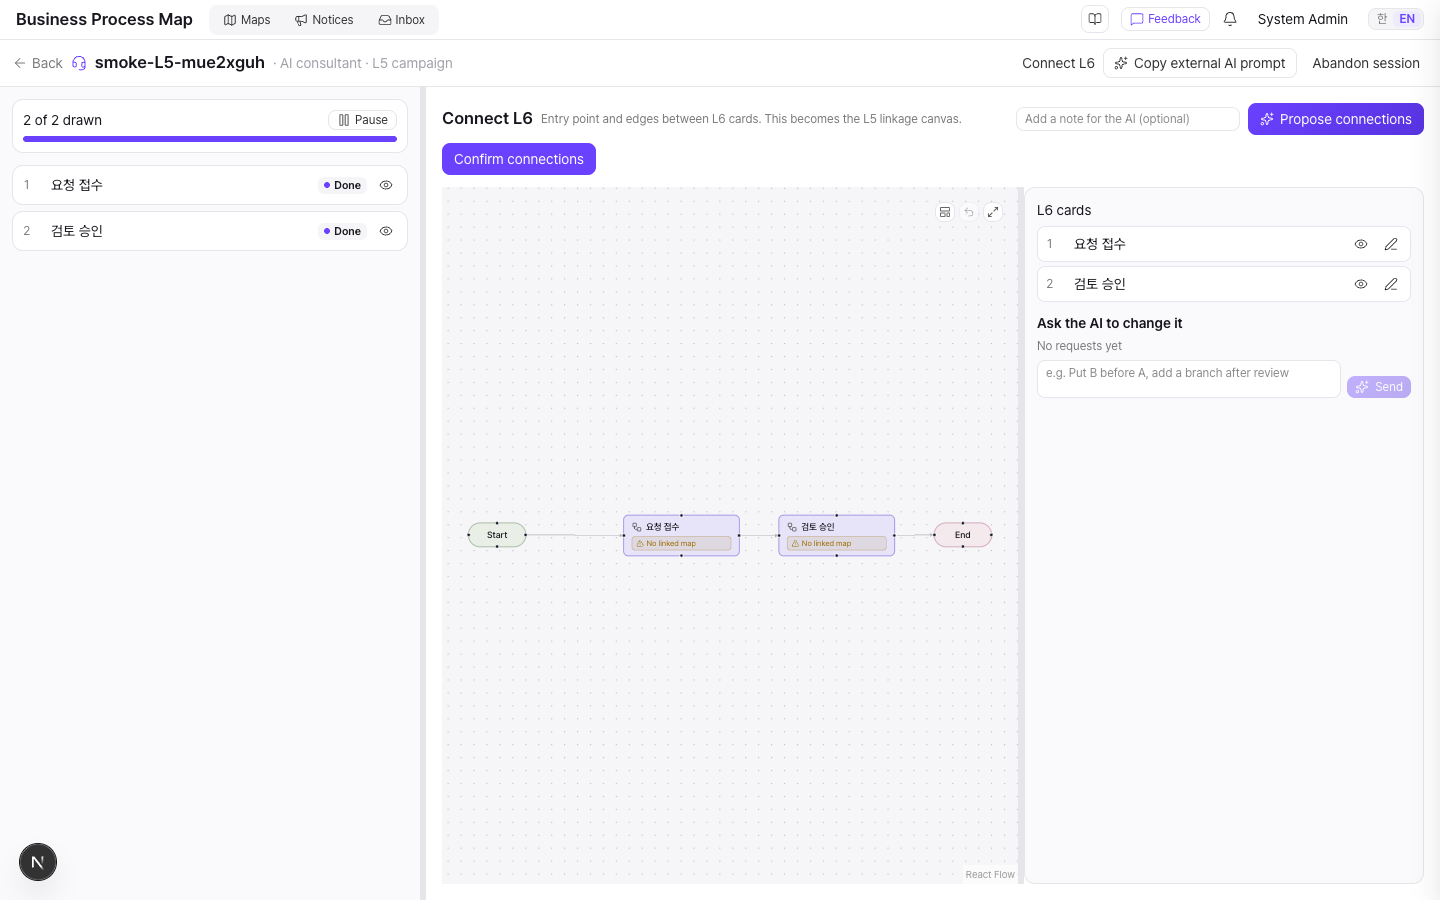
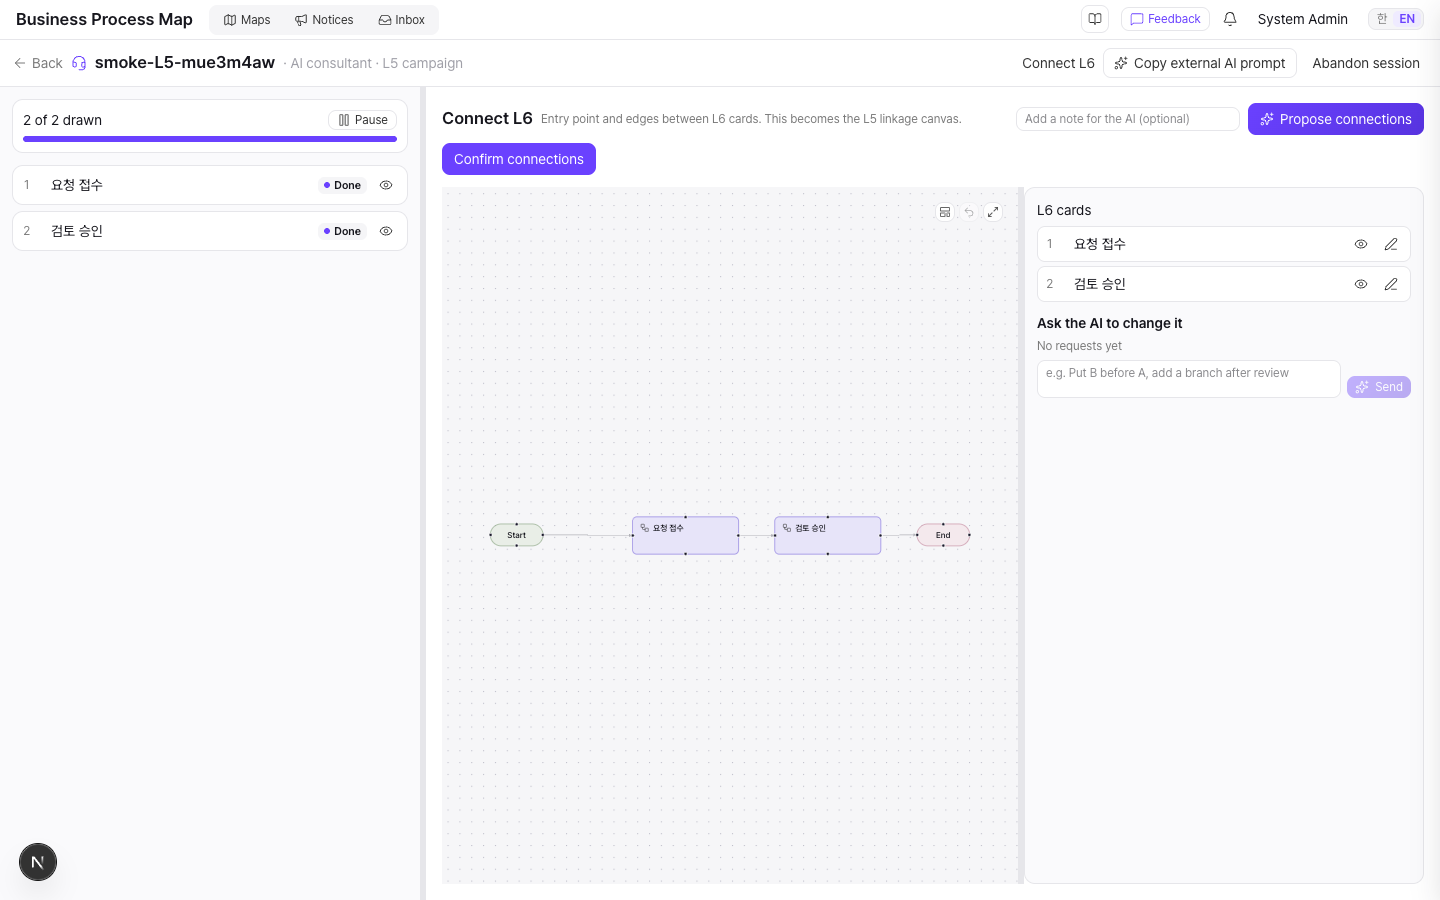
fix(fw-consult): make edge delete reachable and keep L6 nodes on the relations canvas — 엣지 삭제 복구·노드 삭제 차단
리뷰 지적 4건.

1) 제어형 edges에 onEdgesChange가 없어 select 변경이 버려졌다 — 어떤 엣지도
   selected가 되지 않아 Delete 경로가 늘 비고 onEdgesDelete가 죽어 있었다.
2) 노드는 deletable=false. Delete가 노드를 지우면 deleteElements가 연결 엣지를
   먼저 떼어내 서버엔 고아 노드(422), 화면엔 없는 노드가 남았다. L6 카드는 캔버스에
   늘 있어야 하고 분기 마름모는 컨텍스트 메뉴로만 걷는다.
3) NodeData.hideLinkBanner 옵트인 플래그 — 아직 맵이 없는 L6 노드에 뜨던 "링크
   미지정" 배너를 이 캔버스에서만 끈다(기본 off, 다른 ProcessNode 표면 불변).
4) proOptions.hideAttribution.

곁들여: 전역 <style>을 캔버스 래퍼 클래스로 한정(같은 단계의 카드 미리보기 모달이
또 다른 RF 인스턴스), fitViewOptions maxZoom 1.2, OVERLAY_MIN_MS 주석 정정.

Claude-Session: https://claude.ai/code/session_01Cp6z7UQxkS4JyPnK2oo8Q2

Changed region(s): [[0.4375, 0.56, 0.6875, 0.6222], [0.1562, 0.0622, 0.3125, 0.0933], [0.3125, 0.5911, 0.375, 0.6222]]

diff --git a/frontend/src/components/framework-interview/relations-canvas.tsx b/frontend/src/components/framework-interview/relations-canvas.tsx
@@ -4,11 +4,13 @@
 
 import { useRef, useState } from "react";
 import {
+  applyEdgeChanges,
   applyNodeChanges,
   Background,
   BackgroundVariant,
   type Connection,
   type Edge,
+  type EdgeChange,
   type NodeChange,
   type NodeTypes,
   Panel,
@@ -42,12 +44,20 @@ const nodeTypes: NodeTypes = { process: ProcessNode };
 // 임포트 리포트 미리보기 툴바와 같은 칩(map-preview ZOOM_BTN) — 캔버스 위에 얹는 작은 액션
 const TOOL_BTN =
   "inline-flex h-5 w-5 items-center justify-center rounded-sm border border-hairline bg-surface/90 text-ink-secondary hover:bg-accent-tint hover:text-accent disabled:opacity-40";
+const WRAP_CLASS = "bpm-fw-relations-flow";
+const FIT_VIEW_OPTIONS = { padding: 0.2, maxZoom: 1.2 };
 
 // 캔버스 엣지엔 핸들 개념이 없다 — 표시 단계에서 4변 핸들(sideHandles) + 우→좌로 못 박아 LR 흐름을 고정한다.
+// deletable=false — L6 카드는 캔버스에 늘 남아야 하고 분기 마름모는 컨텍스트 메뉴로만 걷는다. Delete가
+// 노드까지 지우면 deleteElements가 연결 엣지를 먼저 떼어내 서버엔 고아 노드가, 화면엔 없는 노드가 남는다.
 function buildFlow(canvas: FwCanvas): { nodes: AppNode[]; edges: Edge[] } {
   const { nodes, edges } = canvasToFlow(canvas);
   return {
-    nodes: nodes.map((node) => ({ ...node, data: { ...node.data, sideHandles: true } })),
+    nodes: nodes.map((node) => ({
+      ...node,
+      deletable: false,
+      data: { ...node.data, sideHandles: true, hideLinkBanner: true },
+    })),
     edges: edges.map((edge) => ({ ...edge, sourceHandle: "s-right", targetHandle: "t-left" })),
   };
 }
@@ -105,6 +115,12 @@ function RelationsFlow({ canvas, taskNames, onChange, onMention, busy }: Relatio
     setNodes((nds) => applyNodeChanges(changes, nds));
   }
 
+  // 제어형 edges는 onEdgesChange 없이는 select 변경이 버려진다 — 그러면 어떤 엣지도 selected가 안 되고
+  // Delete 경로(선택 엣지 수집)가 영원히 비어 onEdgesDelete가 불리지 않는다.
+  function handleEdgesChange(changes: EdgeChange<Edge>[]) {
+    setEdges((eds) => applyEdgeChanges(changes, eds));
+  }
+
   // 드롭 시점에만 좌표를 커밋 — 되돌리기 스냅샷은 남기지 않는다(구조 변경·자동 정렬 전용)
   function handleNodeDragStop(_event: unknown, _node: AppNode, dragged: AppNode[]) {
     let next = readCanvas();
@@ -147,7 +163,7 @@ function RelationsFlow({ canvas, taskNames, onChange, onMention, busy }: Relatio
     let next = base;
     for (const node of laid.nodes) next = moveNode(next, node.id, node.position.x, node.position.y);
     commit(base, next);
-    window.requestAnimationFrame(() => void fitView({ padding: 0.2 }));
+    window.requestAnimationFrame(() => void fitView(FIT_VIEW_OPTIONS));
   }
 
   function handleUndo() {
@@ -191,9 +207,10 @@ function RelationsFlow({ canvas, taskNames, onChange, onMention, busy }: Relatio
   }
 
   return (
-    <div ref={wrapRef} className="relative min-h-0 flex-1 overflow-hidden bg-canvas" data-id="fw-consult-relations-canvas">
-      {/* Turbopack이 dev에서 .react-flow__* 규칙을 purge해 raw <style>로 둔다(lessons canvas §5) */}
-      <style>{`.react-flow__node{z-index:2 !important}`}</style>
+    <div ref={wrapRef} className={`relative min-h-0 flex-1 overflow-hidden bg-canvas ${WRAP_CLASS}`} data-id="fw-consult-relations-canvas">
+      {/* Turbopack이 dev에서 .react-flow__* 규칙을 purge해 raw <style>로 둔다(lessons canvas §5).
+          이 캔버스 래퍼로 한정 — 같은 단계의 카드 미리보기 모달이 또 다른 RF 인스턴스를 띄운다. */}
+      <style>{`.${WRAP_CLASS} .react-flow__node{z-index:2 !important}`}</style>
       <div className={`h-full w-full ${busy ? "pointer-events-none opacity-60" : ""}`}>
         <ReactFlow
           nodes={nodes}
@@ -203,13 +220,17 @@ function RelationsFlow({ canvas, taskNames, onChange, onMention, busy }: Relatio
           nodesDraggable
           elementsSelectable
           onNodesChange={handleNodesChange}
+          onEdgesChange={handleEdgesChange}
           onNodeDragStop={handleNodeDragStop}
           onConnect={handleConnect}
           onEdgesDelete={handleEdgesDelete}
           onEdgeClick={handleEdgeClick}
           onNodeContextMenu={handleNodeContextMenu}
           fitView
+          fitViewOptions={FIT_VIEW_OPTIONS}
           minZoom={0.2}
+          // 우하단 어트리뷰션 마크 숨김(공식 proOptions) — 에디터와 동일
+          proOptions={{ hideAttribution: true }}
           /* 에디터와 동일한 휠/팬 맵핑 — 휠=팬, Ctrl/⌘+휠=줌 */
           panOnDrag
           panOnScroll
@@ -247,7 +268,7 @@ function RelationsFlow({ canvas, taskNames, onChange, onMention, busy }: Relatio
               data-id="fw-relations-fit"
               title={t("fwConsult.canvasFit")}
               aria-label={t("fwConsult.canvasFit")}
-              onClick={() => void fitView({ padding: 0.2 })}
+              onClick={() => void fitView(FIT_VIEW_OPTIONS)}
             >
               <Maximize2 size={12} strokeWidth={1.5} />
             </button>

diff --git a/frontend/src/components/framework-interview/relations-step.tsx b/frontend/src/components/framework-interview/relations-step.tsx
@@ -16,7 +16,8 @@ import { RelationsCanvas } from "@/components/framework-interview/relations-canv
 const PRIMARY = "rounded-sm bg-accent px-3 py-1.5 text-caption text-on-accent hover:bg-accent-focus disabled:opacity-40";
 const ICON_BTN = "rounded-sm p-1 text-ink-secondary hover:bg-surface-alt disabled:opacity-40";
 const SAVE_DEBOUNCE_MS = 300;
-// 제안 오버레이 최소 노출 — 가짜/빠른 응답에도 링이 한 번은 보이게(사용자가 무슨 일이 일어났는지 알게)
+// 제안 오버레이 최소 노출 — 캔버스가 도착하면 부모가 key로 이 컴포넌트를 리마운트해 링이 바로 걷히므로,
+// 이 하한이 실제로 묶는 건 캔버스가 끝내 오지 않는 경우(실패·무변경 응답)의 해제 판정 시점이다.
 const OVERLAY_MIN_MS = 1500;
 const EMPTY_CANVAS: FwCanvas = { nodes: [], edges: [] };
 

diff --git a/frontend/src/lib/canvas.ts b/frontend/src/lib/canvas.ts
@@ -157,6 +157,9 @@ export type NodeData = {
   spOriginPath?: string | null;
   // 비교 화면 전용 — 엣지가 4변 핸들(t-/s-)로 재매핑되므로 subprocess도 NodeHandles를 렌더해야 함 (F1)
   sideHandles?: boolean;
+  // 캠페인 연결 캔버스 전용 옵트인 — 아직 맵이 없는 L6 카드를 그리는 표면이라 "링크 미지정" 배너를 끈다.
+  // 기본(미전달)은 기존 동작 유지 — 에디터·비교·미리보기는 배너가 실제 조치 신호다.
+  hideLinkBanner?: boolean;
 };
 
 export type AppNode = Node<NodeData>;

diff --git a/frontend/src/components/process-node.tsx b/frontend/src/components/process-node.tsx
@@ -1410,7 +1410,7 @@ export function ProcessNode({ id, data, isConnectable, selected }: NodeProps<App
               <span className="truncate">{t("subprocess.undesignatedBanner")}</span>
             </div>
           )
-        ) : data.linkedMapId == null ? (
+        ) : data.linkedMapId == null && data.hideLinkBanner !== true ? (
           spPlaceholder && onConnectPlaceholder ? (
             // 후차 연결 CTA — 배너 자체가 진입점(연계 캔버스 편집 모드 전용) (design §10.1, 2026-08-29)
             <button

diff --git a/PROGRESS.md b/PROGRESS.md
@@ -5,7 +5,7 @@
 
 ## 2026-09-23 — AI L5 캠페인 2라운드 스프린트 ④ 캠페인 엔진
 
-- **연결 단계 = 편집 캔버스(dev, 09-23, Task 3):** 엣지 표로 흐름을 고치던 연결 단계를 폐기하고 `relations-canvas.tsx`(ReactFlow, 핸들 드래그 연결·엣지 클릭 라벨·우클릭 분기 추가/제거·언급/taskId 복사·자동 정렬/되돌리기 1단계/맞춤)로 교체 — 진입 즉시 `onPropose("")` 1회(오버레이 링 최소 1.5초)·편집은 300ms 디바운스 `PUT /canvas`·우측은 L6 카드 목록 + `FeedbackChat scope="relations"`. 캔버스 엣지엔 핸들 개념이 없어 표시 단계에서 4변 핸들+우→좌로 못 박고(LR 고정), RF 상태를 편집 진실로 두고 구조 변경만 `flowToCanvas`로 캔버스를 만들어 되돌려 받는다. **디바운스 저장 응답은 `applySession`하지 않는다** — 하면 `key={JSON.stringify(session.canvas…)}`가 매 편집마다 바뀌어 300ms마다 캔버스가 리마운트(뷰포트·입력 초기화)된다. 오버레이는 캔버스 도착 또는 호출 종료(busy 해제) 중 먼저 오는 쪽에 걷힌다 — 실패한 제안이 링으로 화면을 잠그지 않게. 새 스모크 `pw-fw-consult-canvas.mjs` 10/10(오버레이·노드 4·피드백 엣지 뒤집기·분기 +1·라벨 저장·PUT 200·등록 도달), 기존 3종은 자동 제안 대기로 이식 12/12·10/10·15/15.
+- **연결 단계 = 편집 캔버스(dev, 09-23, Task 3):** 엣지 표로 흐름을 고치던 연결 단계를 폐기하고 `relations-canvas.tsx`(ReactFlow, 핸들 드래그 연결·엣지 클릭 라벨·우클릭 분기 추가/제거·언급/taskId 복사·자동 정렬/되돌리기 1단계/맞춤)로 교체 — 진입 즉시 `onPropose("")` 1회(오버레이 링 최소 1.5초)·편집은 300ms 디바운스 `PUT /canvas`·우측은 L6 카드 목록 + `FeedbackChat scope="relations"`. 캔버스 엣지엔 핸들 개념이 없어 표시 단계에서 4변 핸들+우→좌로 못 박고(LR 고정), RF 상태를 편집 진실로 두고 구조 변경만 `flowToCanvas`로 캔버스를 만들어 되돌려 받는다. **디바운스 저장 응답은 `applySession`하지 않는다** — 하면 `key={JSON.stringify(session.canvas…)}`가 매 편집마다 바뀌어 300ms마다 캔버스가 리마운트(뷰포트·입력 초기화)된다. 오버레이는 캔버스 도착 또는 호출 종료(busy 해제) 중 먼저 오는 쪽에 걷힌다 — 실패한 제안이 링으로 화면을 잠그지 않게. 리뷰 픽스: **제어형 edges엔 `onEdgesChange`가 필수**(없으면 select 변경이 버려져 어떤 엣지도 selected가 안 되고 Delete→`onEdgesDelete` 경로가 영구히 죽는다) · 노드는 전부 `deletable: false`(Delete가 노드까지 지우면 `deleteElements`가 연결 엣지를 먼저 떼어내 서버엔 고아 노드, 화면엔 없는 노드가 남는다 — 마름모 제거는 컨텍스트 메뉴만) · `NodeData.hideLinkBanner` 옵트인 플래그로 아직 맵이 없는 L6 노드의 "링크 미지정" 배너 억제(기본 off라 에디터·비교·미리보기 불변) · `proOptions.hideAttribution` · 전역 `<style>`을 캔버스 래퍼 클래스로 한정(같은 단계의 카드 미리보기 모달이 또 다른 RF 인스턴스다) · `fitViewOptions maxZoom 1.2`. 새 스모크 `pw-fw-consult-canvas.mjs` 13/13(오버레이·노드 4·피드백 엣지 뒤집기·분기 +1·라벨 저장·엣지 Delete 삭제+저장·노드 Delete 무반응·PUT 200·등록 도달), 기존 3종은 자동 제안 대기로 이식 12/12·10/10·15/15.
 - **FeedbackChat 공용 컴포넌트(dev, 09-23, Task 2):** `frontend/src/components/framework-interview/feedback-chat.tsx` — `session.feedback_log`를 scope(relations/task, task는 `task_pk` 일치까지)로 필터해 목록+textarea(Enter 전송·Shift+Enter 줄바꿈, IME 조합 중 Enter는 무시 — `isComposing` 가드, `ai-chat-panel.tsx`/`interview-panel.tsx`와 동일 컨벤션)+`AiButton inline` 전송을 렌더. `draft`/`onDraftChange` 제어형이라 우클릭 "피드백에 언급"이 밖에서 텍스트를 끼워 넣을 수 있다. Task 3(관계 캔버스)·Task 4(행 패널)가 마운트.
 - **캔버스↔ReactFlow 순수 변환(dev, 09-23, Task 1):** `frontend/src/lib/relations-canvas.ts` — `canvasToFlow`/`flowToCanvas`(왕복 시 task_id·node_type은 `prev`에서 되찾고 위치만 갱신) + `addBranchAfter`/`removeBranch`(분기 마름모 삽입·제거, 엣지 원위치 치환으로 순서 보존)·`connectNodes`/`setEdgeLabel`/`removeEdge`/`moveNode`. `gateway`는 RF 엣지 `data.gateway`로 왕복하고 없으면 키 자체를 생략(전부 parallel 팬아웃이 확정 게이트 6에서 소실되지 않도록).
 - **자연어 피드백 엔드포인트(dev, 09-23, B4/B5/B9):** 캔버스·행을 고치려면 손으로 그리거나 설문을 다시 받아야 했던 것을 `POST /framework-interviews/{id}/feedback`(`{scope: relations|task, task_pk?, message}`) 한 곳으로 — relations는 현재 캔버스+카드 목록을 실어 같은 형태를 받아 `normalize_canvas`(id·task_id 불변, 새 노드는 `__branch__` 분기만, 빠뜨린 subprocess/start/end는 직전 캔버스에서 보충, 미지 끝점 엣지 폐기, **모델이 빠뜨린 gateway는 같은 쌍의 base 값을 이어받는다** — 전부 parallel인 팬아웃이 라벨 수정 한 번에 seq로 떨어지면 확정 게이트 6이 무너진다) → `validate_canvas` → 노드 구성이 바뀐 경우에만 `relayout_canvas`(그대로면 잡아 둔 배치 유지)로 저장하고 relations는 건드리지 않는다(확정 시 역산). task는 현재 행을 실어 `RowOut`을 다시 받아 `validate_row` 오류면 422, 통과면 행·이슈·drawn_at 갱신 + 세션이 `ready`였으면 `linking`으로 되돌려 조립본 폐기. 두 경로 모두 `feedback_log`에 최근 10건만 남기고, 422는 `{"errors":[…]}`(PUT /canvas와 같은 모양)로 끝내되 청구된 AI 호출의 계량 이벤트는 커밋한다. RowOut 마감(`owner` 제거 + 빈 부서는 카드 값으로)은 `assemble.finalize_row_output` 한 곳으로 모아 러너 드로잉과 피드백이 같은 규칙을 쓴다 — 한쪽만 부서를 메우면 피드백 한 번에 부서가 조용히 지워졌다. 계약 2종은 레지스트리 키(`l5_canvas_feedback_contract`·`l6_row_feedback_contract`)로 오버라이드 가능(PROMPT_KEYS 15개).
